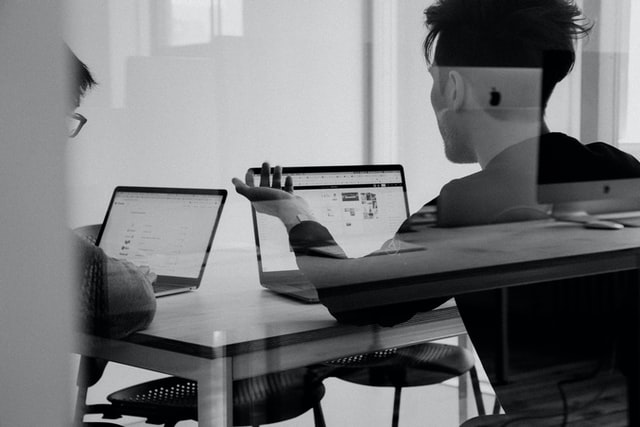
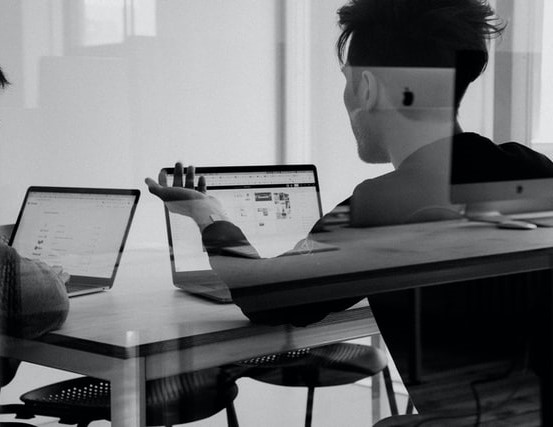
Update Galeria

diff --git a/styles/style.css b/styles/style.css
@@ -251,7 +251,7 @@ header {
     background-repeat: no-repeat;
     background-size: cover;
     min-height: 800px;
-    height:  auto;
+    height:  100vh;
     display: flex;
     flex-direction: column;
     justify-content: center;
@@ -291,8 +291,8 @@ header {
 }
     /* ========== O ESCRITORIO ========== */
 .office-container {
-    padding: 150px 0;
-    height: auto;
+    
+    height: 100vh;
     display: flex;
     justify-content: space-between;
     flex-direction: row;
@@ -301,6 +301,7 @@ header {
 .office-container img {
     max-width: 100%;
     min-width: 400px;
+    max-height: 800px;
     display: block;
     overflow-x: hidden;
 }
@@ -328,28 +329,30 @@ header {
 }
 .gallery-1 {
     width: 25%;
-    background-image: url('../img/galeria-1.jpg');
+    background-image: url('../img/escritorio/galeria-1.jpg');
     background-repeat: no-repeat;
     background-size: cover;
+    background-position-y: bottom;
 }
 .gallery-2 {
     width: 25%;
-    background-image: url('../img/galeria-2.jpg');
+    background-image: url('../img/escritorio/galeria-2.jpg');
     background-repeat: no-repeat;
     background-size: cover;
 }
 .gallery-3 {
     width: 25%;
-    background-image: url('../img/galeria-3.jpg');
+    background-image: url('../img/escritorio/galeria-3.jpg');
     background-repeat: no-repeat;
     background-size: cover;
+    background-position-y: center;
 }
 .gallery-4 {
     width: 25%;
-    background-image: url('../img/galeria-4.jpg');
+    background-image: url('../img/escritorio/galeria-4.jpg');
     background-repeat: no-repeat;
     background-size: cover;
-    background-position-x: -85px ;
+    background-position-y: center;
 }
     /* FOOTER */
 footer {

diff --git a/index.html b/index.html
@@ -241,7 +241,7 @@
             <!-- ESCRITORIO -->
         <section id="escritorio" class="office-container">
             <article>
-                <img src="./img/escritorio.jpg" alt="Escritório" data-aos="fade-right" data-aos-delay="200" data-aos-duration="1500">
+                <img src="./img/escritorio/escritorio-1.jpg" alt="Escritório" data-aos="fade-right" data-aos-delay="200" data-aos-duration="1500">
             </article> 
             <article data-aos="fade-left" data-aos-delay="600" data-aos-duration="1500" class="office-content">
                 <h2>O Escritório</h2>

diff --git a/styles/media.css b/styles/media.css
@@ -10,9 +10,6 @@
     .gallery-container {
         height: 250px;
     }
-    .gallery-4 { 
-        background-position-x: -50px;
-    }
 }
 
 @media screen and (max-width: 1000px) {
@@ -102,13 +99,10 @@
         flex-wrap: wrap-reverse;
         justify-content: center;
         padding: 0;
+        height: auto;
     }
     .gallery-container {
         height: 150px;
-    }
-        /* Apagar caso troque a foto */
-    .gallery-4 { 
-        background-position-x: 0;
     }
     .footer-container {
         padding: 0 20px;
